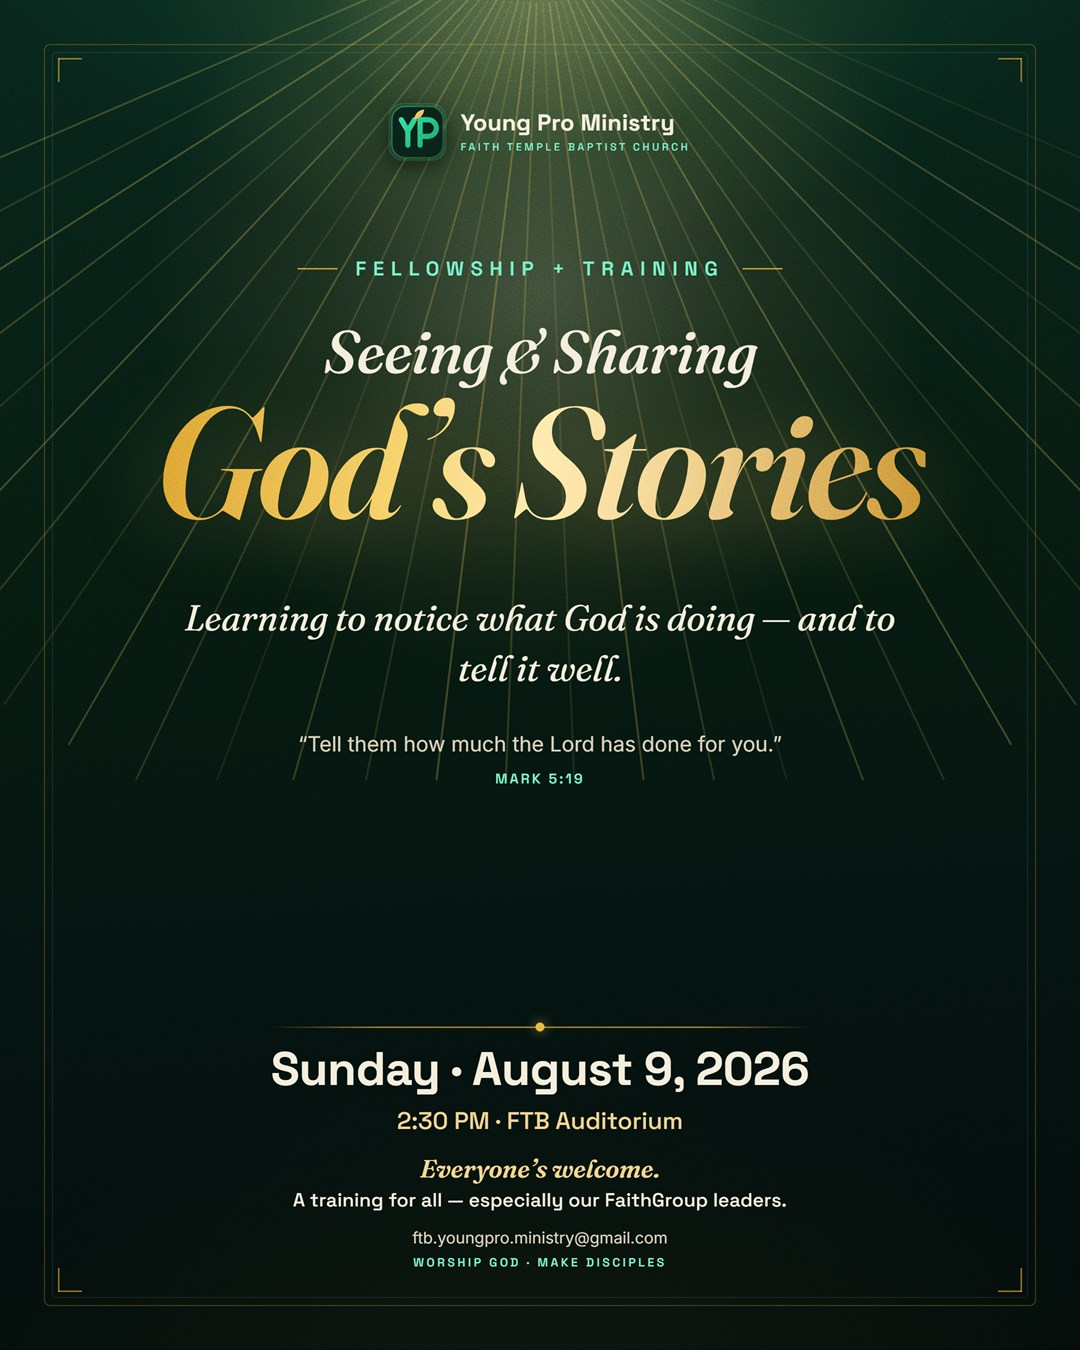
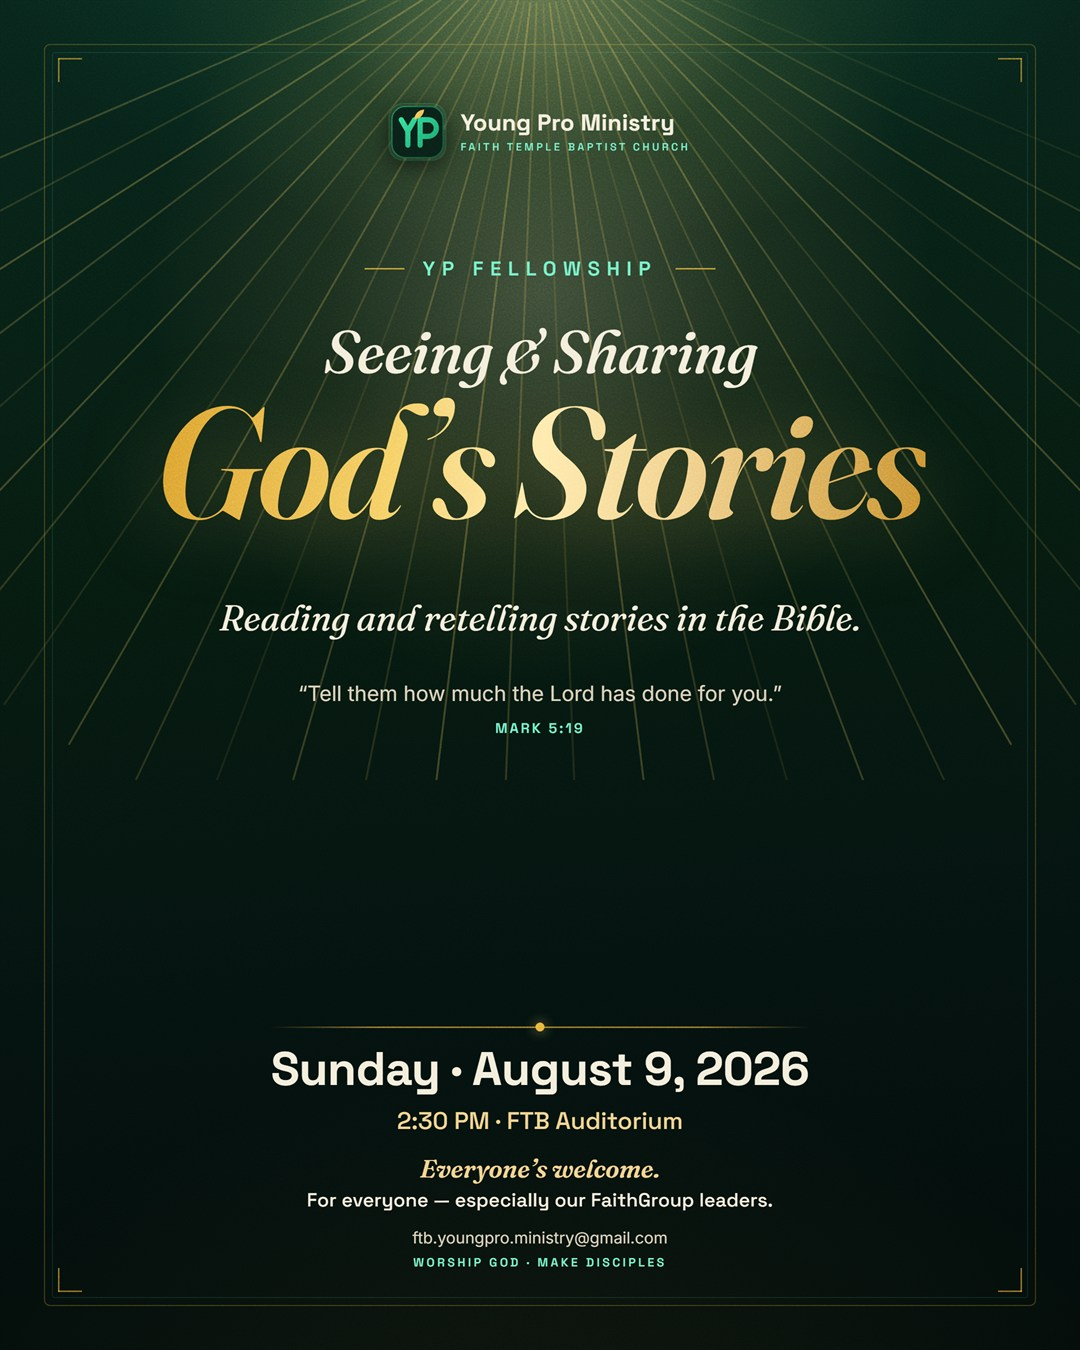
Package the Gods Stories event as a fellowship and clarify the Latest badge
- Redo the poster: subtitle now reads Reading and retelling stories in the Bible,
  drop the word training, keep the Everyones welcome line
- Frame the event as a fellowship across the site (tag, blurb, calendar, schema)
- Relabel the Bahala Na badge from Latest to Recap so the next event reads clearly
- Bump the service worker cache so the updated poster refreshes for returning visitors

Changed region(s): [[0.1528, 0.4356, 0.825, 0.5911], [0.275, 0.8711, 0.7333, 0.9022], [0.3361, 0.1867, 0.6722, 0.2178]]

diff --git a/index.html b/index.html
@@ -281,12 +281,12 @@
       {
         "@type": "Event",
         "@id": "https://ftb-youngpro.github.io/#event-stories",
-        "name": "Seeing and Sharing God's Stories — YP Training",
+        "name": "Seeing and Sharing God's Stories — YP Fellowship",
         "startDate": "2026-08-09T14:30:00+08:00",
         "endDate": "2026-08-09T16:30:00+08:00",
         "eventStatus": "https://schema.org/EventScheduled",
         "eventAttendanceMode": "https://schema.org/OfflineEventAttendanceMode",
-        "description": "A YP fellowship and training on seeing and sharing God's stories — for everyone, and especially our FaithGroup leaders. Learning to notice what God is doing, and to tell it well.",
+        "description": "A YP fellowship on seeing and sharing God's stories — for everyone, and especially our FaithGroup leaders. Reading and retelling the stories in the Bible.",
         "image": "https://ftb-youngpro.github.io/assets/img/ypf-stories-08-09-2026.jpg",
         "url": "https://ftb-youngpro.github.io/#happenings",
         "location": {
@@ -584,19 +584,19 @@
         <header class="section-head">
           <p class="eyebrow" data-reveal>Happenings</p>
           <h2 class="section-title" id="happenings-heading" data-reveal data-split>What's been going on — and what's next.</h2>
-          <p class="section-lead lead" data-reveal>Up next is a fellowship + training &mdash;
+          <p class="section-lead lead" data-reveal>Up next is a fellowship &mdash;
             &ldquo;Seeing and Sharing God&rsquo;s Stories&rdquo; on Sunday, August 9. Below it: our latest
             Friend Day recap and everywhere else we've been this year. Come join us for what's coming.</p>
         </header>
 
         <ul class="feed-grid" role="list">
 
-          <!-- Seeing & Sharing God's Stories · YP Training (Aug 9) — FEATURED next event.
+          <!-- Seeing & Sharing God's Stories · YP Fellowship (Aug 9) — FEATURED next event.
                [data-event] drives the live countdown, Add-to-Calendar, and Share;
                the .post-countdown line is a no-JS fallback. -->
           <li class="post card glass post--featured post--upcoming" data-reveal style="--i:0"
               data-event
-              data-event-title="Seeing and Sharing God's Stories — YP Training"
+              data-event-title="Seeing and Sharing God's Stories — YP Fellowship"
               data-event-start="2026-08-09T14:30:00+08:00"
               data-event-end="2026-08-09T16:30:00+08:00"
               data-event-location="FTB Auditorium, #206 P. Orbe St., Blueville Subdivision, Novaliches, Quezon City, Philippines 1117"
@@ -604,22 +604,22 @@
             <div class="post-media">
               <img class="post-poster" data-parallax data-mask loading="lazy"
                    src="assets/img/ypf-stories-08-09-2026.jpg"
-                   alt="Poster — Seeing and Sharing God's Stories, a YP fellowship and training, Sunday August 9, 2026, 2:30 PM at the FTB Auditorium."
+                   alt="Poster — Seeing and Sharing God's Stories, a YP fellowship, Sunday August 9, 2026, 2:30 PM at the FTB Auditorium."
                    width="1080" height="1350">
               <span class="badge badge-upcoming">Next up</span>
             </div>
             <div class="post-body">
-              <p class="post-meta"><span class="post-date">August 9, 2026</span><span class="post-tag">Training</span></p>
+              <p class="post-meta"><span class="post-date">August 9, 2026</span><span class="post-tag">Fellowship</span></p>
               <h3 class="post-title">Seeing &amp; Sharing God&rsquo;s Stories</h3>
               <p class="post-countdown" data-event-countdown>
                 <span class="yp-leaf-flourish" aria-hidden="true"></span>
                 Sunday, August 9 · 2:30 PM · FTB Auditorium
               </p>
-              <p class="post-blurb">This Sunday's fellowship is a training for all — especially our FaithGroup
-                leaders. We learn to notice what God is doing, and to tell it well. Everyone's welcome — bring a friend.</p>
+              <p class="post-blurb">This Sunday's fellowship is for everyone — especially our FaithGroup
+                leaders. We read and retell the stories in the Bible together. Everyone's welcome — bring a friend.</p>
               <div class="event-actions" data-event-actions>
                 <a class="btn-event" data-event-cal-google target="_blank" rel="noopener noreferrer"
-                   href="https://www.google.com/calendar/render?action=TEMPLATE&amp;text=Seeing%20and%20Sharing%20God%27s%20Stories%20%E2%80%94%20YP%20Training&amp;dates=20260809T063000Z/20260809T083000Z&amp;details=A%20YP%20fellowship%20and%20training%20on%20seeing%20and%20sharing%20God%27s%20stories.%20A%20training%20for%20all%20%E2%80%94%20especially%20FaithGroup%20leaders.%20Everyone%27s%20welcome.&amp;location=FTB%20Auditorium%2C%20%23206%20P.%20Orbe%20St.%2C%20Novaliches%2C%20Quezon%20City">
+                   href="https://www.google.com/calendar/render?action=TEMPLATE&amp;text=Seeing%20and%20Sharing%20God%27s%20Stories%20%E2%80%94%20YP%20Fellowship&amp;dates=20260809T063000Z/20260809T083000Z&amp;details=A%20YP%20fellowship%20on%20seeing%20and%20sharing%20God%27s%20stories%20%E2%80%94%20reading%20and%20retelling%20the%20stories%20in%20the%20Bible.%20Everyone%27s%20welcome%20%E2%80%94%20bring%20a%20friend.&amp;location=FTB%20Auditorium%2C%20%23206%20P.%20Orbe%20St.%2C%20Novaliches%2C%20Quezon%20City">
                   <span class="yp-leaf-flourish" aria-hidden="true"></span>Add to calendar
                 </a>
                 <button class="btn-event" type="button" data-event-share aria-label="Share this event">
@@ -638,7 +638,7 @@
                      alt="Friend Day poster — Bahala Na, Sunday July 12, 2026, 2:30 PM at the FTB Auditorium."
                      width="1080" height="1350">
               </a>
-              <span class="badge badge-latest">Latest</span>
+              <span class="badge badge-latest">Recap</span>
             </div>
             <div class="post-body">
               <p class="post-meta"><span class="post-date">July 12, 2026</span><span class="post-tag">Friend Day</span></p>

diff --git a/events.html b/events.html
@@ -185,12 +185,12 @@
       {
         "@type": "Event",
         "@id": "https://ftb-youngpro.github.io/events.html#event-stories",
-        "name": "Seeing and Sharing God's Stories — YP Training",
+        "name": "Seeing and Sharing God's Stories — YP Fellowship",
         "startDate": "2026-08-09T14:30:00+08:00",
         "endDate": "2026-08-09T16:30:00+08:00",
         "eventStatus": "https://schema.org/EventScheduled",
         "eventAttendanceMode": "https://schema.org/OfflineEventAttendanceMode",
-        "description": "A YP fellowship and training on seeing and sharing God's stories — for everyone, and especially our FaithGroup leaders. Learning to notice what God is doing, and to tell it well.",
+        "description": "A YP fellowship on seeing and sharing God's stories — for everyone, and especially our FaithGroup leaders. Reading and retelling the stories in the Bible.",
         "image": "https://ftb-youngpro.github.io/assets/img/ypf-stories-08-09-2026.jpg",
         "url": "https://ftb-youngpro.github.io/events.html",
         "location": {
@@ -327,18 +327,18 @@
         <header class="section-head">
           <p class="eyebrow" data-reveal>Upcoming</p>
           <h2 class="section-title" id="upcoming-heading" data-reveal data-split>What's next this season.</h2>
-          <p class="section-lead lead" data-reveal>Up next is a fellowship + training &mdash;
+          <p class="section-lead lead" data-reveal>Up next is a fellowship &mdash;
             &ldquo;Seeing and Sharing God&rsquo;s Stories&rdquo; on Sunday, August 9. Add any of these to
             your calendar so you don't miss them. Everyone's welcome.</p>
         </header>
 
         <ul class="feed-grid" role="list">
 
-          <!-- Seeing & Sharing God's Stories · YP Training (Aug 9) — FEATURED next event.
+          <!-- Seeing & Sharing God's Stories · YP Fellowship (Aug 9) — FEATURED next event.
                Full [data-event] hooks drive the countdown + Add-to-Calendar + Share. -->
           <li class="post card glass post--featured post--upcoming" data-reveal style="--i:0"
               data-event
-              data-event-title="Seeing and Sharing God's Stories — YP Training"
+              data-event-title="Seeing and Sharing God's Stories — YP Fellowship"
               data-event-start="2026-08-09T14:30:00+08:00"
               data-event-end="2026-08-09T16:30:00+08:00"
               data-event-location="FTB Auditorium, #206 P. Orbe St., Blueville Subdivision, Novaliches, Quezon City, Philippines 1117"
@@ -346,22 +346,22 @@
             <div class="post-media">
               <img class="post-poster" data-parallax data-mask loading="lazy"
                    src="assets/img/ypf-stories-08-09-2026.jpg"
-                   alt="Poster — Seeing and Sharing God's Stories, a YP fellowship and training, Sunday August 9, 2026, 2:30 PM at the FTB Auditorium."
+                   alt="Poster — Seeing and Sharing God's Stories, a YP fellowship, Sunday August 9, 2026, 2:30 PM at the FTB Auditorium."
                    width="1080" height="1350">
               <span class="badge badge-upcoming">Next up</span>
             </div>
             <div class="post-body">
-              <p class="post-meta"><span class="post-date">August 9, 2026</span><span class="post-tag">Training</span></p>
+              <p class="post-meta"><span class="post-date">August 9, 2026</span><span class="post-tag">Fellowship</span></p>
               <h3 class="post-title">Seeing &amp; Sharing God&rsquo;s Stories</h3>
               <p class="post-countdown" data-event-countdown>
                 <span class="yp-leaf-flourish" aria-hidden="true"></span>
                 Sunday, August 9 · 2:30 PM · FTB Auditorium
               </p>
-              <p class="post-blurb">This Sunday's fellowship is a training for all — especially our FaithGroup
-                leaders. We learn to notice what God is doing, and to tell it well. Everyone's welcome — bring a friend.</p>
+              <p class="post-blurb">This Sunday's fellowship is for everyone — especially our FaithGroup
+                leaders. We read and retell the stories in the Bible together. Everyone's welcome — bring a friend.</p>
               <div class="event-actions" data-event-actions>
                 <a class="btn-event" data-event-cal-google target="_blank" rel="noopener noreferrer"
-                   href="https://www.google.com/calendar/render?action=TEMPLATE&amp;text=Seeing%20and%20Sharing%20God%27s%20Stories%20%E2%80%94%20YP%20Training&amp;dates=20260809T063000Z/20260809T083000Z&amp;details=A%20YP%20fellowship%20and%20training%20on%20seeing%20and%20sharing%20God%27s%20stories.%20A%20training%20for%20all%20%E2%80%94%20especially%20FaithGroup%20leaders.%20Everyone%27s%20welcome.&amp;location=FTB%20Auditorium%2C%20%23206%20P.%20Orbe%20St.%2C%20Novaliches%2C%20Quezon%20City">
+                   href="https://www.google.com/calendar/render?action=TEMPLATE&amp;text=Seeing%20and%20Sharing%20God%27s%20Stories%20%E2%80%94%20YP%20Fellowship&amp;dates=20260809T063000Z/20260809T083000Z&amp;details=A%20YP%20fellowship%20on%20seeing%20and%20sharing%20God%27s%20stories%20%E2%80%94%20reading%20and%20retelling%20the%20stories%20in%20the%20Bible.%20Everyone%27s%20welcome%20%E2%80%94%20bring%20a%20friend.&amp;location=FTB%20Auditorium%2C%20%23206%20P.%20Orbe%20St.%2C%20Novaliches%2C%20Quezon%20City">
                   <span class="yp-leaf-flourish" aria-hidden="true"></span>Add to calendar
                 </a>
                 <button class="btn-event" type="button" data-event-share aria-label="Share this event">
@@ -518,7 +518,7 @@
             <p class="post-meta" data-reveal>
               <span class="post-date">July 12, 2026</span>
               <span class="post-tag">Friend Day</span>
-              <span class="badge badge-latest">Latest</span>
+              <span class="badge badge-latest">Recap</span>
             </p>
             <h3 class="recap-feature-title" data-reveal>Friend Day — &ldquo;Bahala Na&rdquo;</h3>
             <p class="recap-feature-blurb" data-reveal>Salamat sa lahat ng dumalo! Worship, the Word on

diff --git a/sw.js b/sw.js
@@ -16,7 +16,7 @@
   Bump CACHE_VERSION whenever the shell assets change so clients pick up fresh files.
 */
 
-const CACHE_VERSION = "yp-cache-v2";
+const CACHE_VERSION = "yp-cache-v3";
 
 /*
   Core shell that must be present for the precache to succeed. Every entry here is a
